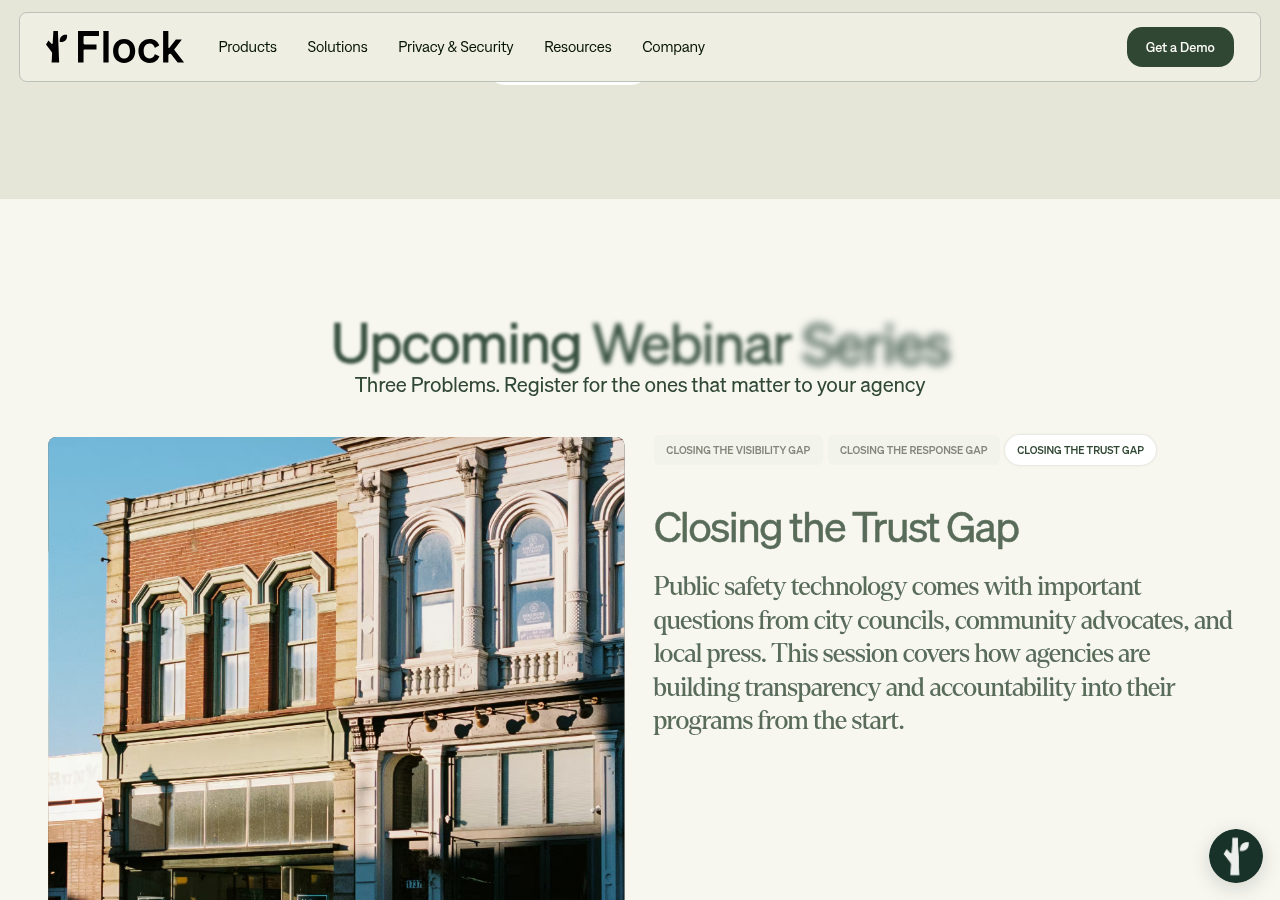
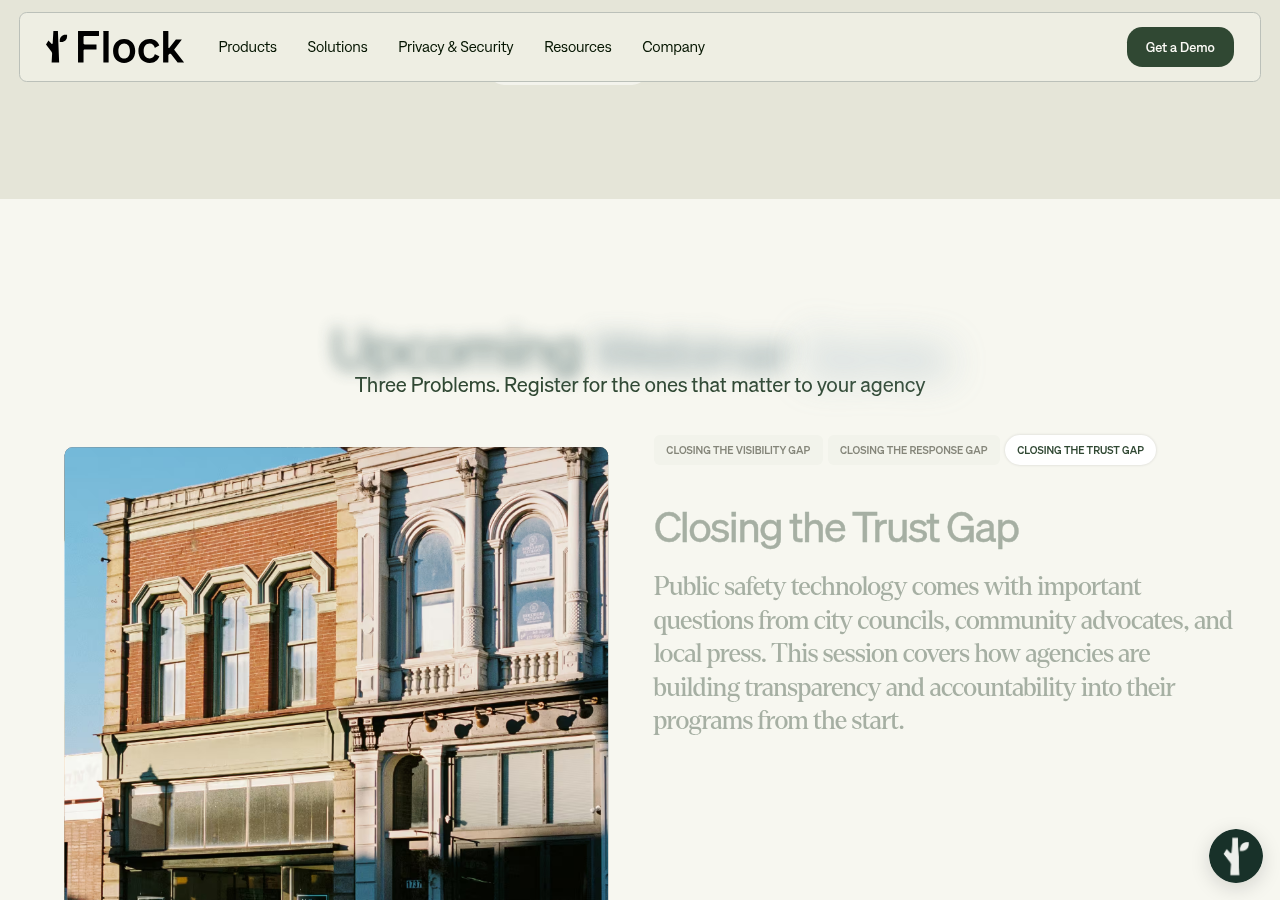
fix(flock-parody): review fixes — close take-over on resize; de-brittle nav test
Two-axis review of f18e92b..HEAD found one real bug and one test-quality breach:

- pipeline/nav-runtime.js: onResize cleared only .nav__dd.show, so a mobile
  take-over opened at <992px survived a resize to desktop (ticket 14's AC:
  "outside click and resize close"). It now drops .header__bg.is-open, the
  button state and the inline reveal when the breakpoint is crossed; verified
  in the Docker-Chromium probe.
- test/nav.seam.test.ts: the reduced-motion check string-matched nav.css's
  selector list, so a pure reorder failed it (CODING_STANDARDS Testing:
  behavior only). It now parses the media block and asserts the selector SET,
  and a new jsdom test covers the resize close.
- test/fixtures/capture-run/account.html: drop the stale sf-hidden the
  corrected run no longer carries.
- Annotate ticket 14's evidence and issue (and audit-served-graft.mjs) as
  historical — ticket 15 retired the graft its Graft-coverage section measures.
- map.md: pass-3 -> pass-4 to match build.mjs's pass list.
- evidence/15: add the resize regression to the browser probe and its result.

Changed region(s): [[0.0312, 0.4667, 0.9688, 1.0], [0.25, 0.3422, 0.75, 0.4356], [0.0312, 0.8711, 0.0625, 1.0]]

diff --git a/test/nav.seam.test.ts b/test/nav.seam.test.ts
@@ -65,6 +65,23 @@ function clickIn(win: Win, el: Element) {
   return ev;
 }
 
+/** The selector set of nav.css's reduced-motion block, order-independent. */
+function reducedMotionCssSelectors(css: string): string[] {
+  const at = css.indexOf('@media (prefers-reduced-motion: reduce)');
+  if (at < 0) return [];
+  const open = css.indexOf('{', at);
+  let depth = 0;
+  let end = open;
+  for (let i = open; i < css.length; i += 1) {
+    if (css[i] === '{') depth += 1;
+    else if (css[i] === '}') {
+      depth -= 1;
+      if (depth === 0) { end = i; break; }
+    }
+  }
+  return css.slice(open + 1, end).split('{')[0].split(',').map((s) => s.trim()).filter(Boolean);
+}
+
 describe('nav layer (ticket 14)', () => {
   it('morphs the header on scroll: .scroll past the top, off again at 0', () => {
     const win = domOf().window as Win;
@@ -162,6 +179,23 @@ describe('nav layer (ticket 14)', () => {
     expect(doc.querySelector('.nav__dd')!.classList.contains('show')).toBe(false);
   });
 
+  it('resize into the desktop layout closes the mobile take-over', () => {
+    const win = domOf().window as Win;
+    setWidth(win, 390);
+    const doc = win.document;
+    const button = doc.querySelector('.nav__menu-button')!;
+    const bg = doc.querySelector('.header__bg')!;
+    const list = doc.querySelector('.nav__menu-list') as HTMLElement;
+    clickIn(win, button);
+    expect(bg.classList.contains('is-open')).toBe(true);
+    expect(list.style.display).toBe('block');
+    setWidth(win, 1440);
+    win.dispatchEvent(new win.Event('resize'));
+    expect(bg.classList.contains('is-open')).toBe(false);
+    expect(button.classList.contains('is-open')).toBe(false);
+    expect(list.style.display).toBe('');
+  });
+
   it('reduced motion: the take-over is instant and no transition class is added', () => {
     const win = domOf(true).window as Win;
     setWidth(win, 390);
@@ -177,11 +211,11 @@ describe('nav layer (ticket 14)', () => {
     // The corrected Capture's stylesheet is injected verbatim (ticket 15) and
     // keeps the live header transitions; the authored half has to cancel the
     // header's own ones, or the morph still animates for a reduced-motion
-    // reader. The selector list is locked here; the corrected-run evidence
-    // re-checks it against the real capture (the capture is never a test
-    // dependency — standards, Testing).
-    const block = NAV_CSS.slice(NAV_CSS.indexOf('@media (prefers-reduced-motion: reduce)'));
-    expect(block).toContain('transition: none !important');
+    // reader. jsdom does not evaluate media queries, so this checks the
+    // stylesheet's shape, not a computed style: the selector SET, independent
+    // of order, so a pure reordering of the block is not a test failure.
+    expect(NAV_CSS).toContain('transition: none !important');
+    const selectors = reducedMotionCssSelectors(NAV_CSS);
     for (const sel of [
       '.header-z',
       '.header__bg',
@@ -191,7 +225,7 @@ describe('nav layer (ticket 14)', () => {
       '.nav__dd-product-all',
       '.nav__menu-button .nav-line',
     ]) {
-      expect(block).toContain(sel);
+      expect(selectors).toContain(sel);
     }
   });
 

diff --git a/test/fixtures/capture-run/account.html b/test/fixtures/capture-run/account.html
@@ -2,4 +2,4 @@
  Page saved with SingleFile
  url: https://www.flocksafety.com/account
  saved date: Wed Sep 09 2026 18:33:40 GMT+0000 (Coordinated Universal Time)
---><meta charset=utf-8><title>Account</title></head><body><div class="button_group is-nav cc-pe"><a href=/book-a-demo class="button is-nav w-inline-block"><div class=text-block-11>Get a Demo</div></a><a href=https://users.flocksafety.com/ target=_blank class="button is-nav secondary">Sign In</a></div><main><p>First, visit our <a target=undefined href="https://login.flocksafety.com/login?state=abc&amp;client=xyz">Help Center</a> to troubleshoot.</p><p>Book a meeting with your Flock Account Executive.</p></main><footer><a href=https://users.flocksafety.com/ class="footer-5_link w-inline-block"><div class="footer-5_link-icon w-embed sf-hidden"></div><div>Sign In</div></a></footer>
+--><meta charset=utf-8><title>Account</title></head><body><div class="button_group is-nav cc-pe"><a href=/book-a-demo class="button is-nav w-inline-block"><div class=text-block-11>Get a Demo</div></a><a href=https://users.flocksafety.com/ target=_blank class="button is-nav secondary">Sign In</a></div><main><p>First, visit our <a target=undefined href="https://login.flocksafety.com/login?state=abc&amp;client=xyz">Help Center</a> to troubleshoot.</p><p>Book a meeting with your Flock Account Executive.</p></main><footer><a href=https://users.flocksafety.com/ class="footer-5_link w-inline-block"><div class="footer-5_link-icon w-embed"></div><div>Sign In</div></a></footer>

diff --git a/pipeline/nav-runtime.js b/pipeline/nav-runtime.js
@@ -134,6 +134,19 @@
 
     function onResize() {
       for (var i = 0; i < dropdowns.length; i++) dropdowns[i].classList.remove('show');
+      // Resizing into the desktop layout must drop the mobile take-over with it —
+      // the inline reveal it set would otherwise outlive its breakpoint.
+      if (open && isDesktop()) {
+        if (closeTimer) { clearTimeout(closeTimer); closeTimer = null; }
+        open = false;
+        if (headerBg) headerBg.classList.remove('is-open');
+        if (menuButton) menuButton.classList.remove('is-open');
+        if (menuList) {
+          menuList.style.display = '';
+          menuList.style.opacity = '';
+          menuList.style.transform = '';
+        }
+      }
     }
 
     var i;

diff --git a/.scratch/flock-parody/map.md b/.scratch/flock-parody/map.md
@@ -15,7 +15,7 @@ Decisions settled while charting (2026-09-09, charting session):
 - **Fidelity bar**: serve-snapshots — the Recreation serves the captured SingleFile DOM back verbatim, so word-for-word/CSS-exact is true by construction; the build pass only strips, rewrites links, and injects the story-hook seam. Verification: automated diff (served vs capture minus strip list) as a per-build regression check, plus human side-by-side signoff at the phase gate (the only check covering runtime behavior — animations, chat overlay). *Pivoted from rebuild-as-code, 2026-09-09 serving session: minimum-work constraint.* **Refined 2026-09-09, ticket 05**: captures carry no executable scripts, so served pages are fully static — animations frozen at captured end-state, ratified as the floor. Regression split proven: serving gate (http vs disk render, 0 px tolerance) + strip report (raw vs served, strip-list regions only, human-reviewed). Motion returns as a cheap mimic layer — CSS + IntersectionObserver annotations, never the GSAP/Lenis runtime (ticket 10, waited on 08's census).
 - **Scope**: the entire site, not homepage-plus-nav; the page inventory comes from ticket 01.
 - **Assets**: inlined into each snapshot by SingleFile — no separate asset hosting in the serve-snapshots model; flagged for revisit at publication time.
-- **Trackers**: stripped — and at the serving pivot, generalized: **every external API call is stripped; served pages make zero outbound requests**. **OneTrust stripped entirely** (nothing left to consent to — settled at the serving pivot). **Forms**: identical markup; main flows inert, POSTing to local mock Next.js API routes that redirect to captured thank-you pages (never live); scaffold/test pages dropped from serving. **Marketo (refined at ticket 10): the "static styled mock" is the captured form as-is — all five captured mkto CSS blocks are live in the served page and render it fully styled; no authored mock CSS; the mock is the pass-3 action injection only.**
+- **Trackers**: stripped — and at the serving pivot, generalized: **every external API call is stripped; served pages make zero outbound requests**. **OneTrust stripped entirely** (nothing left to consent to — settled at the serving pivot). **Forms**: identical markup; main flows inert, POSTing to local mock Next.js API routes that redirect to captured thank-you pages (never live); scaffold/test pages dropped from serving. **Marketo (refined at ticket 10): the "static styled mock" is the captured form as-is — all five captured mkto CSS blocks are live in the served page and render it fully styled; no authored mock CSS; the mock is the pass-4 action injection only.**
 - **Link policy**: external links stay live; internal links rewrite to Recreation routes.
 - **Chat mimic**: the real assistant is Qualified. The clone mimics its UX, powered by a yarnspinner-ts wrapper (server-side `Dialogue` vs client bundle, session state, and the Vite-plugin-vs-Next.js question → ticket 04). Yarn script content is the user's future effort; the wrapper ships with a minimal throwaway fixture.
 - **Story-hook seam** (pinned dormant, serving pivot): the build pass injects `story-hooks.js` into every served page exposing `window.flockParody.apply([{selector, text|html|src|style}…])`; the chat wrapper's yarnspinner dialogue events drive it in the parody phase. The Recreation ships it dormant; patch content is the parody effort's.

diff --git a/.scratch/flock-parody-impl/evidence/14-header-fidelity/README.md b/.scratch/flock-parody-impl/evidence/14-header-fidelity/README.md
@@ -5,6 +5,14 @@ scrolled / menu open) and 390×844 (rest / scrolled / take-over open / sub-menu
 open). `compare-*.png` are the stitched pairs (live left, recreation right);
 `live-*.png` / `ours-*.png` are the raw viewport shots.
 
+> **Superseded in part by ticket 15 (2026-09-11).** The corrected-flags capture
+> now carries the header natively, so the `headerRestorePass` graft this ticket
+> built — and the `Graft coverage` section below with it — was retired
+> (`pipeline/header-restore/` deleted). The measured states, scope check and
+> screenshots stay valid; only the graft-coverage counts describe a pass that no
+> longer exists. The header's remaining behavior is covered by
+> `test/nav.seam.test.ts`.
+
 ## Measured state (Docker chromium 152, same rig for both sides)
 
 | state | measurement | live | recreation |
@@ -29,7 +37,7 @@ had emptied it (`<li … sf-hidden></li>`) and the take-over shipped with no Boo
 A Demo button while live has one. The artifact now carries the row and the pass
 grafts it (1179/1179 pages).
 
-## Graft coverage across the built tree (`audit-served-graft.mjs`)
+## Graft coverage across the built tree (`audit-served-graft.mjs`) — historical
 
 Reads `served/build-log.json` after a full `npm run pipeline`:
 

diff --git a/.scratch/flock-parody-impl/evidence/15-capture-config/README.md b/.scratch/flock-parody-impl/evidence/15-capture-config/README.md
@@ -96,6 +96,7 @@ it.
 | --- | --- | --- |
 | shared header menu | `/` | hover → `.nav__dd.show` 1, `.header__bg` opacity 1, panel `display:block` |
 | mobile take-over | `/` | tap hamburger → `.header__bg.is-open` true, CTA row `display:block` "Book a demo" |
+| mobile take-over resize | `/` | open at 390×844 → resize to 1440×900 → `.header__bg.is-open` false (inline overlay cleared, list falls back to the desktop bar) |
 | FAQ dropdown (animated height) | `/products/flock-os` | list height `0px` → `146.8px`, `aria-expanded=true`, `w--open` |
 | filter dropdown (`display:none`) | `/press-center` | list `display:none` → `block`, `w--open` |
 | accordion (LPR) | `/trust` | status `not-active`→`active`, panel rows `0px`→`92.0px` |
@@ -105,7 +106,9 @@ it.
 | condition-hidden | `/resources` | `.w-condition-invisible` present, `display:none` |
 
 Every case is exactly the behavior the `sf-hidden`-keyed runtime used to fake, now
-produced by the capture's own state CSS.
+produced by the capture's own state CSS. The resize case is a regression fix found
+in review: ticket 14's AC requires resize to close the mobile take-over, but the
+runtime's `onResize` only cleared `.nav__dd.show`.
 
 ## 7. Serving gate and size
 

diff --git a/.scratch/flock-parody-impl/issues/14-header-fidelity-scroll-morph-hover-menus.md b/.scratch/flock-parody-impl/issues/14-header-fidelity-scroll-morph-hover-menus.md
@@ -178,3 +178,16 @@ A two-axis review of this ticket found real defects; each is fixed and covered:
 - The systemic root cause (SingleFile dropping hidden elements and unused styles)
   is site-wide and is tracked by the companion ticket
   `15-capture-config-hidden-content-and-unused-styles`.
+
+## Comments
+
+**The header-restore graft was retired by ticket 15 (2026-09-11).** Ticket 15
+moved the build onto a corrected-flags capture run whose stylesheet keeps every
+nav rule and whose DOM keeps every hidden subtree, so the pass/artifact this
+ticket built has no work left to do: `pipeline/header-restore/`, its seam test
+and its fixtures were deleted and the pass removed from `pipeline/build.mjs`.
+The remaining header behavior (scroll morph, hover/tap menus, mobile take-over,
+hamburger) is covered by `test/nav.seam.test.ts` over `pipeline/nav.css` +
+`pipeline/nav-runtime.js`. This ticket's evidence measures the retired graft in
+its `Graft coverage` section — kept as the historical record and annotated as
+such.
